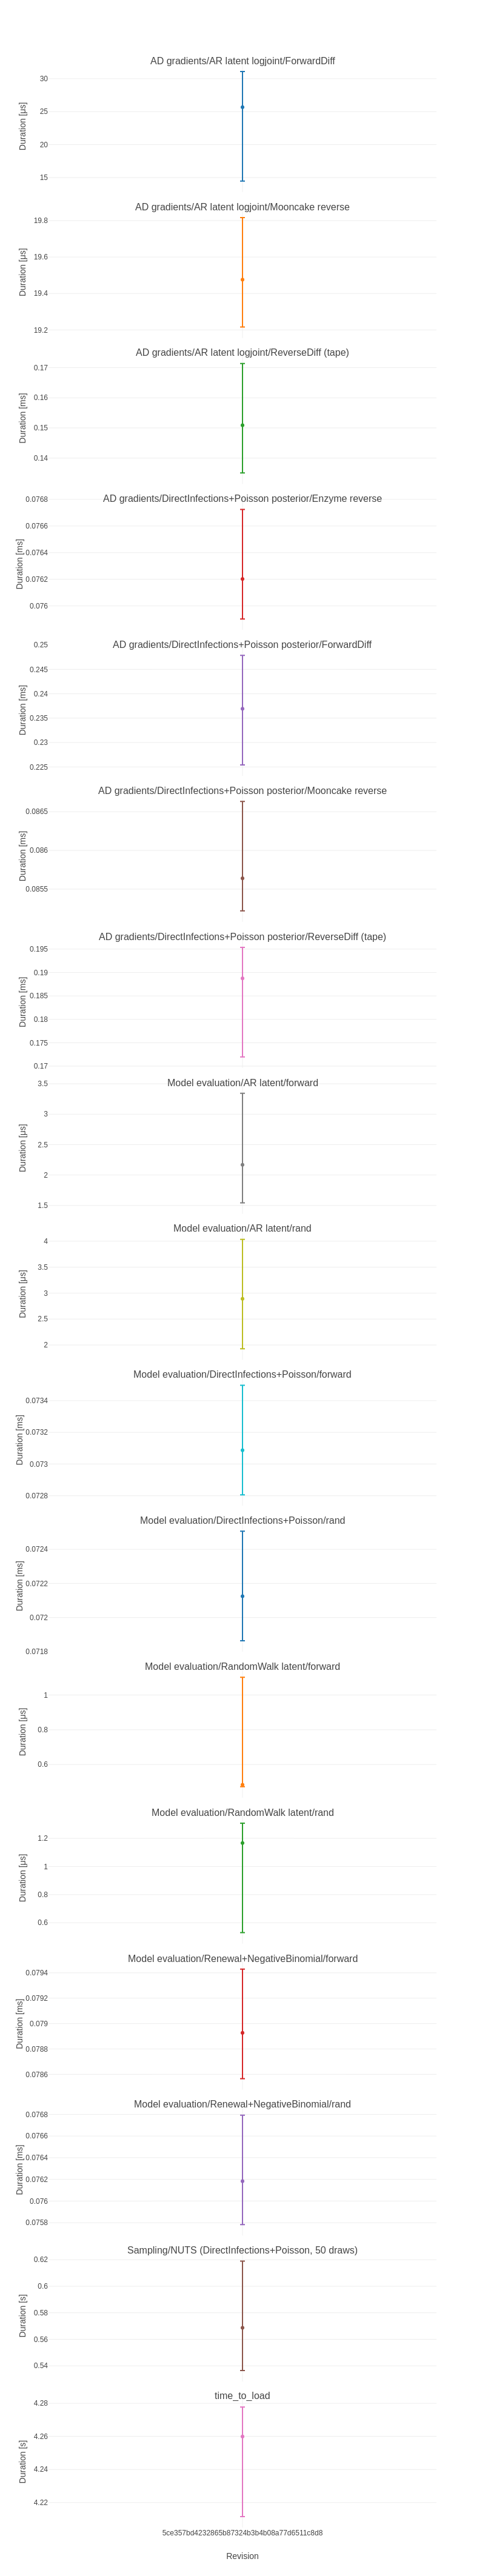
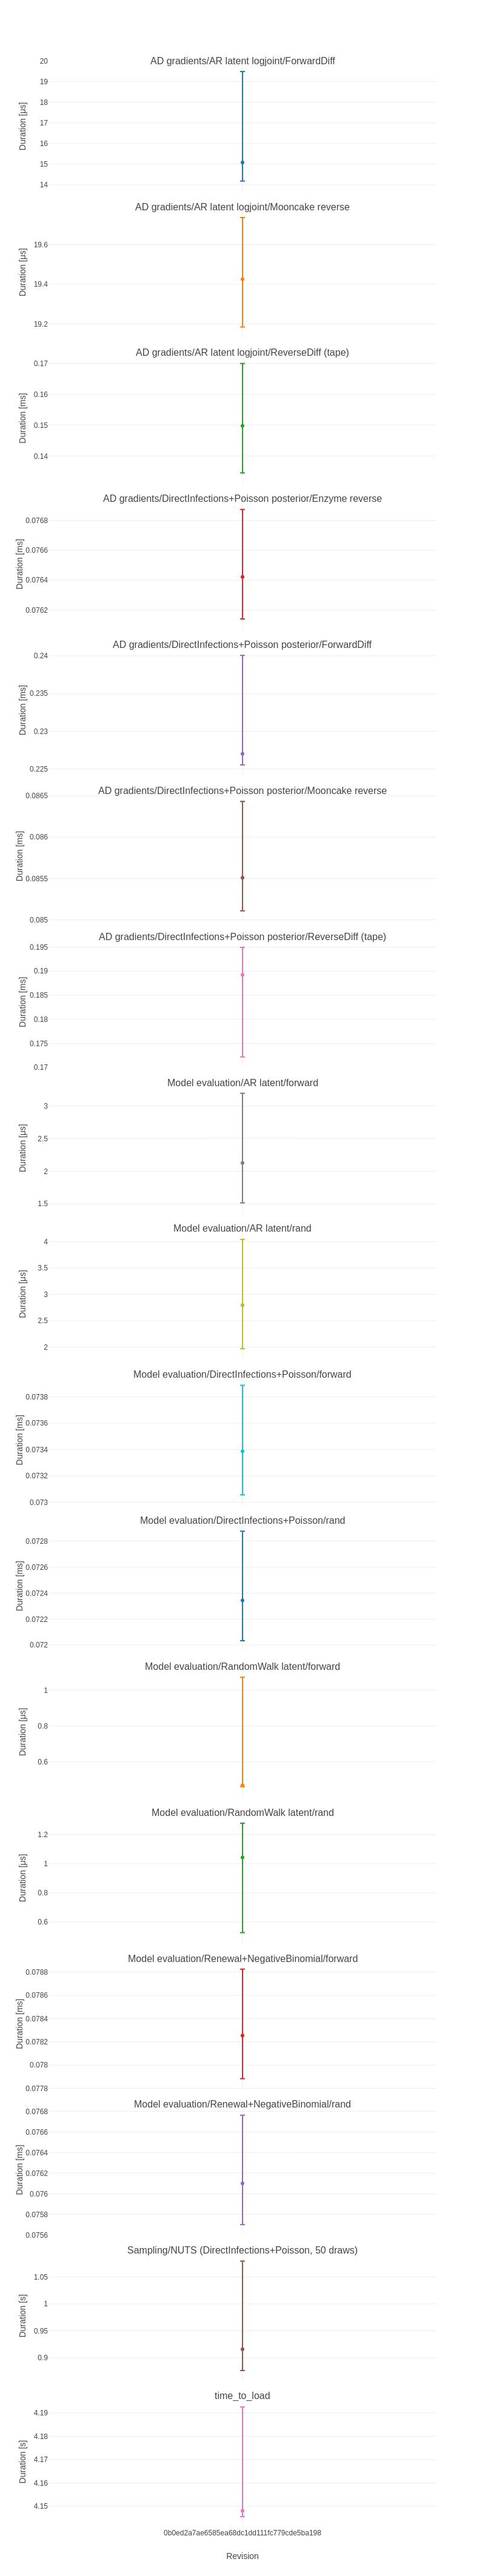
Deploying to benchmarks from @ EpiAware/ComposableTuringIDModels.jl@0b0ed2a7ae6585ea68dc1dd111fc779cde5ba198 🚀

diff --git a/history/table.md b/history/table.md
@@ -1,24 +1,24 @@
-|                                                                    | 5ce357bd423286...   |
+|                                                                    | 0b0ed2a7ae6585...   |
 |:-------------------------------------------------------------------|:-------------------:|
-| AD gradients/AR latent logjoint/ForwardDiff                        | 25.7 ± 17 μs        |
-| AD gradients/AR latent logjoint/Mooncake reverse                   | 19.5 ± 0.6 μs       |
-| AD gradients/AR latent logjoint/ReverseDiff (tape)                 | 0.151 ± 0.036 ms    |
-| AD gradients/DirectInfections+Poisson posterior/Enzyme reverse     | 0.0762 ± 0.00082 ms |
-| AD gradients/DirectInfections+Poisson posterior/ForwardDiff        | 0.237 ± 0.022 ms    |
-| AD gradients/DirectInfections+Poisson posterior/Mooncake reverse   | 0.0856 ± 0.0014 ms  |
+| AD gradients/AR latent logjoint/ForwardDiff                        | 15.1 ± 5.3 μs       |
+| AD gradients/AR latent logjoint/Mooncake reverse                   | 19.4 ± 0.55 μs      |
+| AD gradients/AR latent logjoint/ReverseDiff (tape)                 | 0.15 ± 0.036 ms     |
+| AD gradients/DirectInfections+Poisson posterior/Enzyme reverse     | 0.0764 ± 0.00073 ms |
+| AD gradients/DirectInfections+Poisson posterior/ForwardDiff        | 0.227 ± 0.015 ms    |
+| AD gradients/DirectInfections+Poisson posterior/Mooncake reverse   | 0.0855 ± 0.0013 ms  |
 | AD gradients/DirectInfections+Poisson posterior/ReverseDiff (tape) | 0.189 ± 0.023 ms    |
-| Model evaluation/AR latent/forward                                 | 2.17 ± 1.8 μs       |
-| Model evaluation/AR latent/rand                                    | 2.89 ± 2.1 μs       |
-| Model evaluation/DirectInfections+Poisson/forward                  | 0.0731 ± 0.00069 ms |
-| Model evaluation/DirectInfections+Poisson/rand                     | 0.0721 ± 0.00064 ms |
-| Model evaluation/RandomWalk latent/forward                         | 0.484 ± 0.63 μs     |
-| Model evaluation/RandomWalk latent/rand                            | 1.17 ± 0.78 μs      |
-| Model evaluation/Renewal+NegativeBinomial/forward                  | 0.0789 ± 0.00086 ms |
-| Model evaluation/Renewal+NegativeBinomial/rand                     | 0.0762 ± 0.001 ms   |
-| Sampling/NUTS (DirectInfections+Poisson, 50 draws)                 | 0.569 ± 0.083 s     |
-| time_to_load                                                       | 4.26 ± 0.066 s      |
+| Model evaluation/AR latent/forward                                 | 2.13 ± 1.7 μs       |
+| Model evaluation/AR latent/rand                                    | 2.79 ± 2.1 μs       |
+| Model evaluation/DirectInfections+Poisson/forward                  | 0.0734 ± 0.00083 ms |
+| Model evaluation/DirectInfections+Poisson/rand                     | 0.0723 ± 0.00084 ms |
+| Model evaluation/RandomWalk latent/forward                         | 0.47 ± 0.61 μs      |
+| Model evaluation/RandomWalk latent/rand                            | 1.04 ± 0.75 μs      |
+| Model evaluation/Renewal+NegativeBinomial/forward                  | 0.0783 ± 0.00094 ms |
+| Model evaluation/Renewal+NegativeBinomial/rand                     | 0.0761 ± 0.0011 ms  |
+| Sampling/NUTS (DirectInfections+Poisson, 50 draws)                 | 0.916 ± 0.2 s       |
+| time_to_load                                                       | 4.15 ± 0.047 s      |
 
-|                                                                    | 5ce357bd423286...         |
+|                                                                    | 0b0ed2a7ae6585...         |
 |:-------------------------------------------------------------------|:-------------------------:|
 | AD gradients/AR latent logjoint/ForwardDiff                        | 0.332 k allocs: 0.0522 MB |
 | AD gradients/AR latent logjoint/Mooncake reverse                   | 0.524 k allocs: 20 kB     |
@@ -35,6 +35,6 @@
 | Model evaluation/RandomWalk latent/rand                            | 15  allocs: 2.05 kB       |
 | Model evaluation/Renewal+NegativeBinomial/forward                  | 0.503 k allocs: 23.4 kB   |
 | Model evaluation/Renewal+NegativeBinomial/rand                     | 0.499 k allocs: 22.4 kB   |
-| Sampling/NUTS (DirectInfections+Poisson, 50 draws)                 | 0.832 M allocs: 0.104 GB  |
+| Sampling/NUTS (DirectInfections+Poisson, 50 draws)                 | 2.14 M allocs: 0.265 GB   |
 | time_to_load                                                       | 0.149 k allocs: 11.2 kB   |
 

diff --git a/history/README.md b/history/README.md
@@ -1,6 +1,6 @@
 # ComposableTuringIDModels.jl benchmark history
 
-Revisions: 5ce357bd4232865b87324b3b4b08a77d6511c8d8
+Revisions: 0b0ed2a7ae6585ea68dc1dd111fc779cde5ba198
 
 See `table.md` for the ratio summary and the PNG
 files in this folder for per-benchmark timelines.